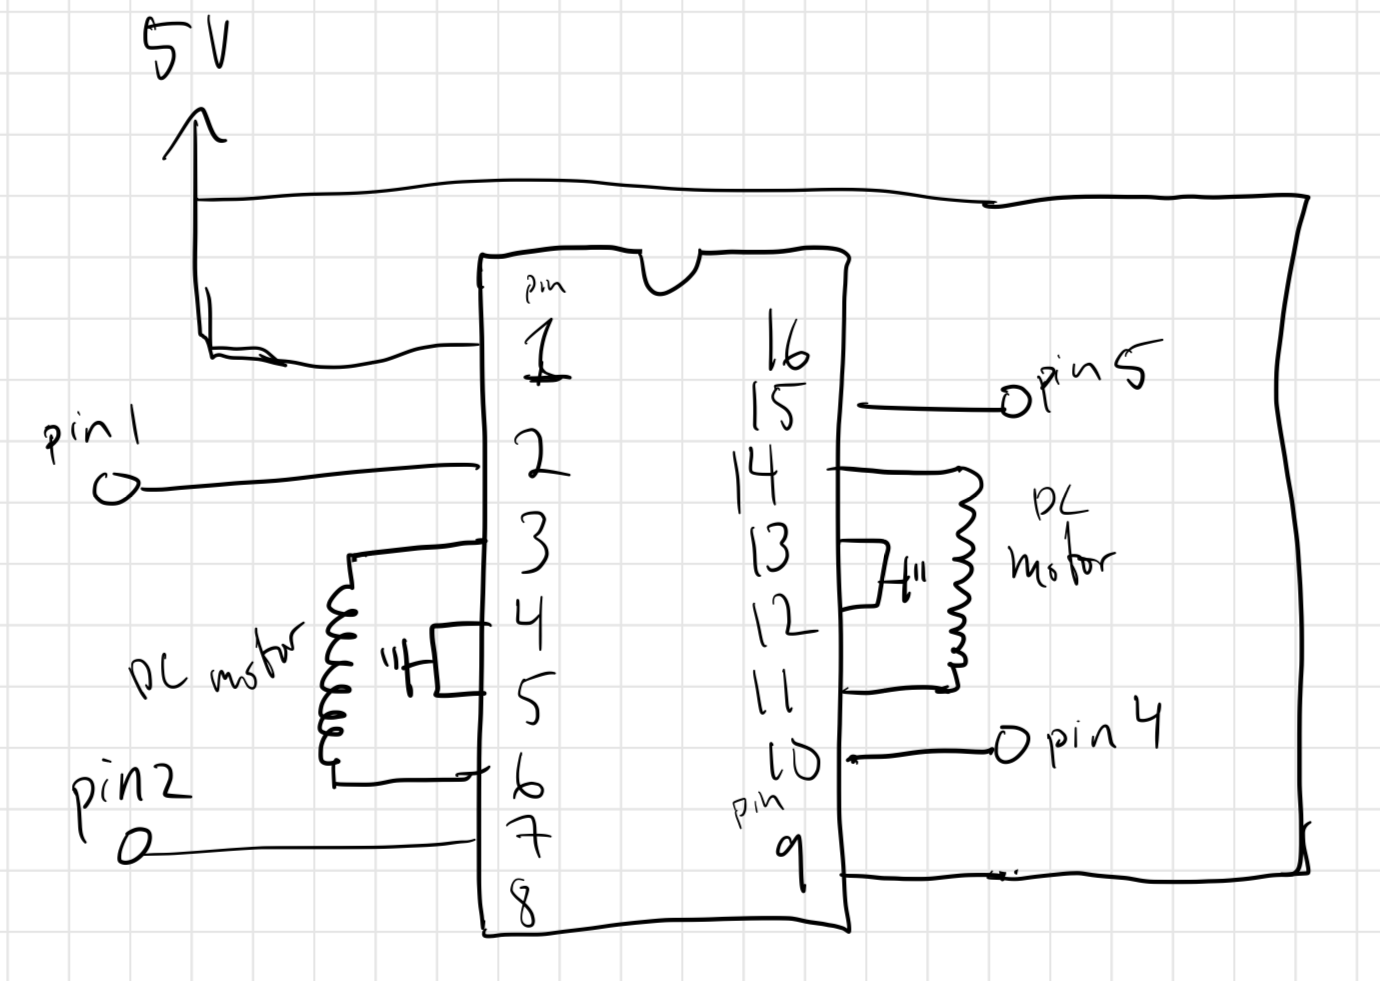
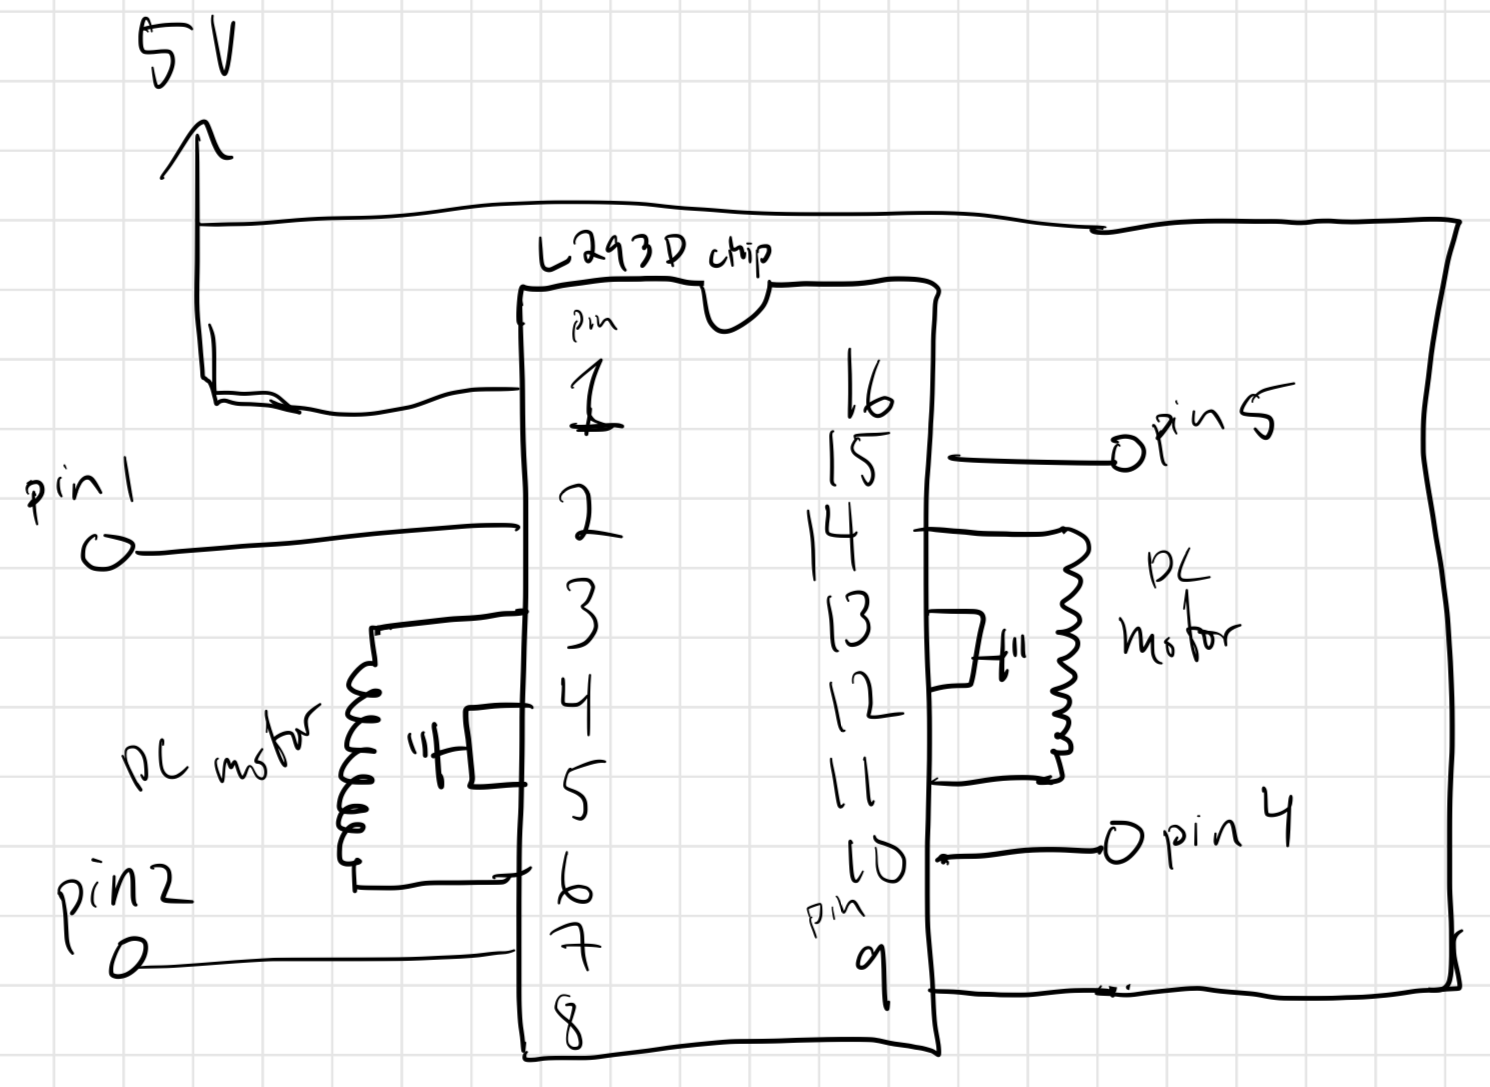
updated a5

Changed region(s): [[0.0, 0.0917, 0.9971, 0.9786], [0.0935, 0.0, 0.187, 0.0917]]

diff --git a/a5.html b/a5.html
@@ -121,8 +121,9 @@
       </pre>
       <p>The mix of pseudocode and "code" has explanations and justifications assuming that I'm using a PIR.</p>
       <br>
-      <h3>3: Your input device is slightly noisy, leading the measurement to randomly deviate from the true measurement up or down by 10%. How can we address this? Answer in (pseudo)code.</h3>
+      <h3>3: Draw a schematic using at least your arduino, this chip, and two motors. Write (pseudo) code that shows how you would move the motors both forward, both back, then one forward one back, and one back then forward.</h3>
       <img width="80%" height="auto" src="./A5-Folder/a5p3.png"/>
+      <p>This is the schematic for question 3. Pins 4, 5, 12, and 13 of the L293D chip are connected to ground.</p>
       <pre>
         <code>
           setup(){
@@ -152,7 +153,7 @@
           }
         </code>
       </pre>
-      <p>The mix of pseudocode and code has comments that explain my thinking. I'm also answering this question as if I was using a different input device that could give me more complex values that are not 0 or 1.</p>
+      <p>This is the pseudocode for Q3.</p>
     </div>
   </body>
 </html>
